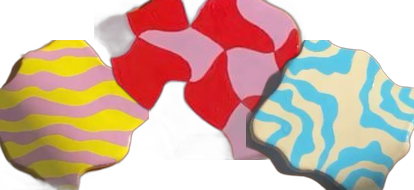
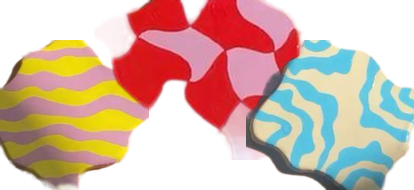
Handwriting margin note + cleaner coaster cutout
- "Same spaces / a little more you" note now uses Caveat (handwriting)
- Re-cut hero coasters with alpha matting + edge cleanup (no dark fringe,
  wavy edges preserved)

diff --git a/app/layout.tsx b/app/layout.tsx
@@ -1,5 +1,5 @@
 import type { Metadata, Viewport } from "next";
-import { Inter, IBM_Plex_Mono, Roboto } from "next/font/google";
+import { Inter, IBM_Plex_Mono, Roboto, Caveat } from "next/font/google";
 import { CartProvider } from "@/components/cart/CartContext";
 import Nav from "@/components/Nav";
 import Footer from "@/components/Footer";
@@ -22,6 +22,13 @@ const sans = Roboto({
   subsets: ["latin"],
   weight: ["300", "400", "500"],
   variable: "--sans",
+  display: "swap",
+});
+// Handwriting — used only for the margin "notes to self".
+const hand = Caveat({
+  subsets: ["latin"],
+  weight: ["400", "600"],
+  variable: "--hand",
   display: "swap",
 });
 
@@ -62,7 +69,7 @@ export const viewport: Viewport = {
 
 export default function RootLayout({ children }: { children: React.ReactNode }) {
   return (
-    <html lang="en" className={`${display.variable} ${mono.variable} ${sans.variable}`}>
+    <html lang="en" className={`${display.variable} ${mono.variable} ${sans.variable} ${hand.variable}`}>
       <body>
         <a href="#main" className="skip-link">Skip to content</a>
         <CartProvider>

diff --git a/app/globals.css b/app/globals.css
@@ -195,7 +195,7 @@ input { font: inherit; }
 .why__head { font-family: var(--display); font-weight: 700; color: var(--ink); letter-spacing: -0.03em; line-height: 1.0; font-size: clamp(40px, 6.5vw, 88px); }
 .why__figure { position: relative; margin-top: clamp(24px, 4vw, 48px); max-width: 460px; }
 .why__figure img { width: 100%; height: auto; }
-.why__note { position: absolute; left: -8px; bottom: 40px; font-family: var(--mono); font-size: 13px; line-height: 1.7; color: var(--navy); transform: rotate(-6deg); }
+.why__note { position: absolute; left: -10px; bottom: 34px; font-family: var(--hand), "Segoe Script", cursive; font-weight: 600; font-size: 30px; line-height: 1.08; letter-spacing: 0.01em; color: var(--ink); transform: rotate(-7deg); }
 .why__body { font-family: var(--mono); font-size: 15px; line-height: 1.75; color: var(--body); }
 .why__body p + p { margin-top: 20px; }
 .why__cta { margin-top: 40px; padding-top: 20px; border-top: 1px solid var(--line); }

diff --git a/components/sections/WhyLookHere.tsx b/components/sections/WhyLookHere.tsx
@@ -19,7 +19,7 @@ export default function WhyLookHere() {
             <div className="why__figure">
               {/* eslint-disable-next-line @next/next/no-img-element */}
               <img src="/objects/wavy-mirror.jpg" alt="Pink wavy mirror leaning against a wall" />
-              <span className="why__note">SAME<br />SPACES.<br />A LITTLE<br />MORE YOU.</span>
+              <span className="why__note">Same spaces.<br />A little<br />more you.</span>
             </div>
           </div>
 
